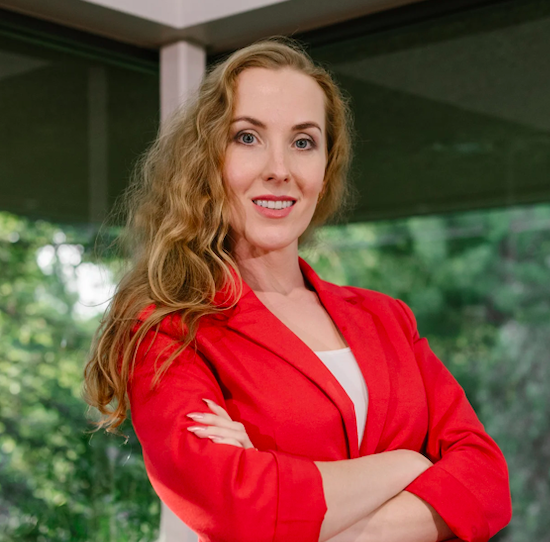
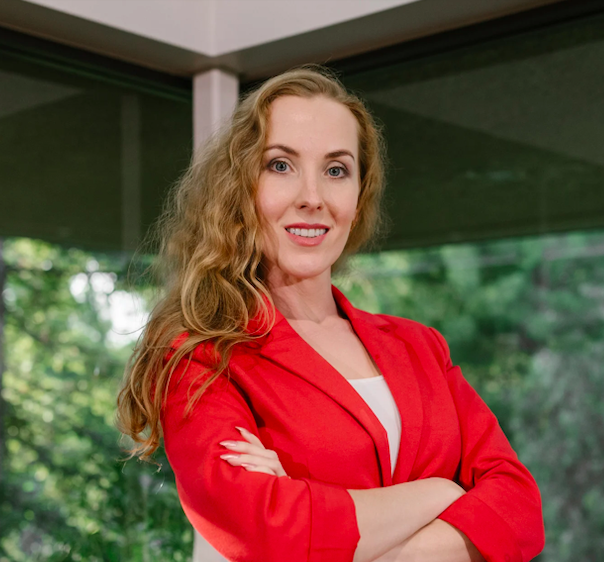
changed made in css file and image file

diff --git a/style.css b/style.css
@@ -189,7 +189,7 @@ body{
 }
 
 .speaker-list .img-holder {
-    height: 375px;
+    height: 350px;
 }
 
 .speaker-list:nth-child(3) .img-holder {
